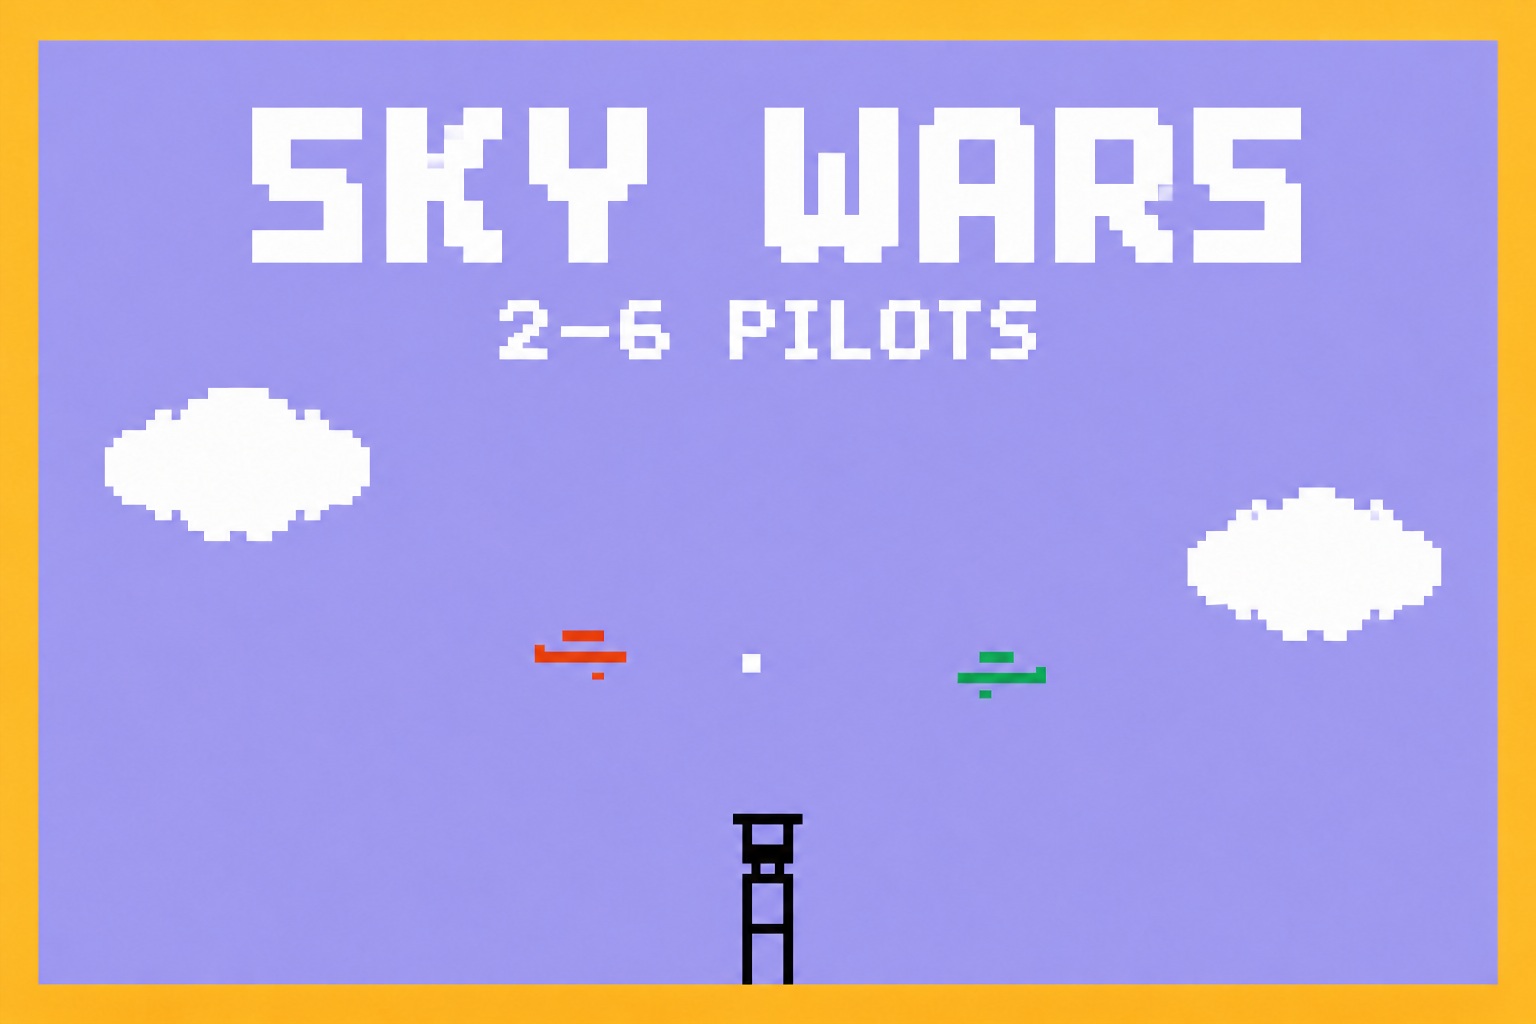
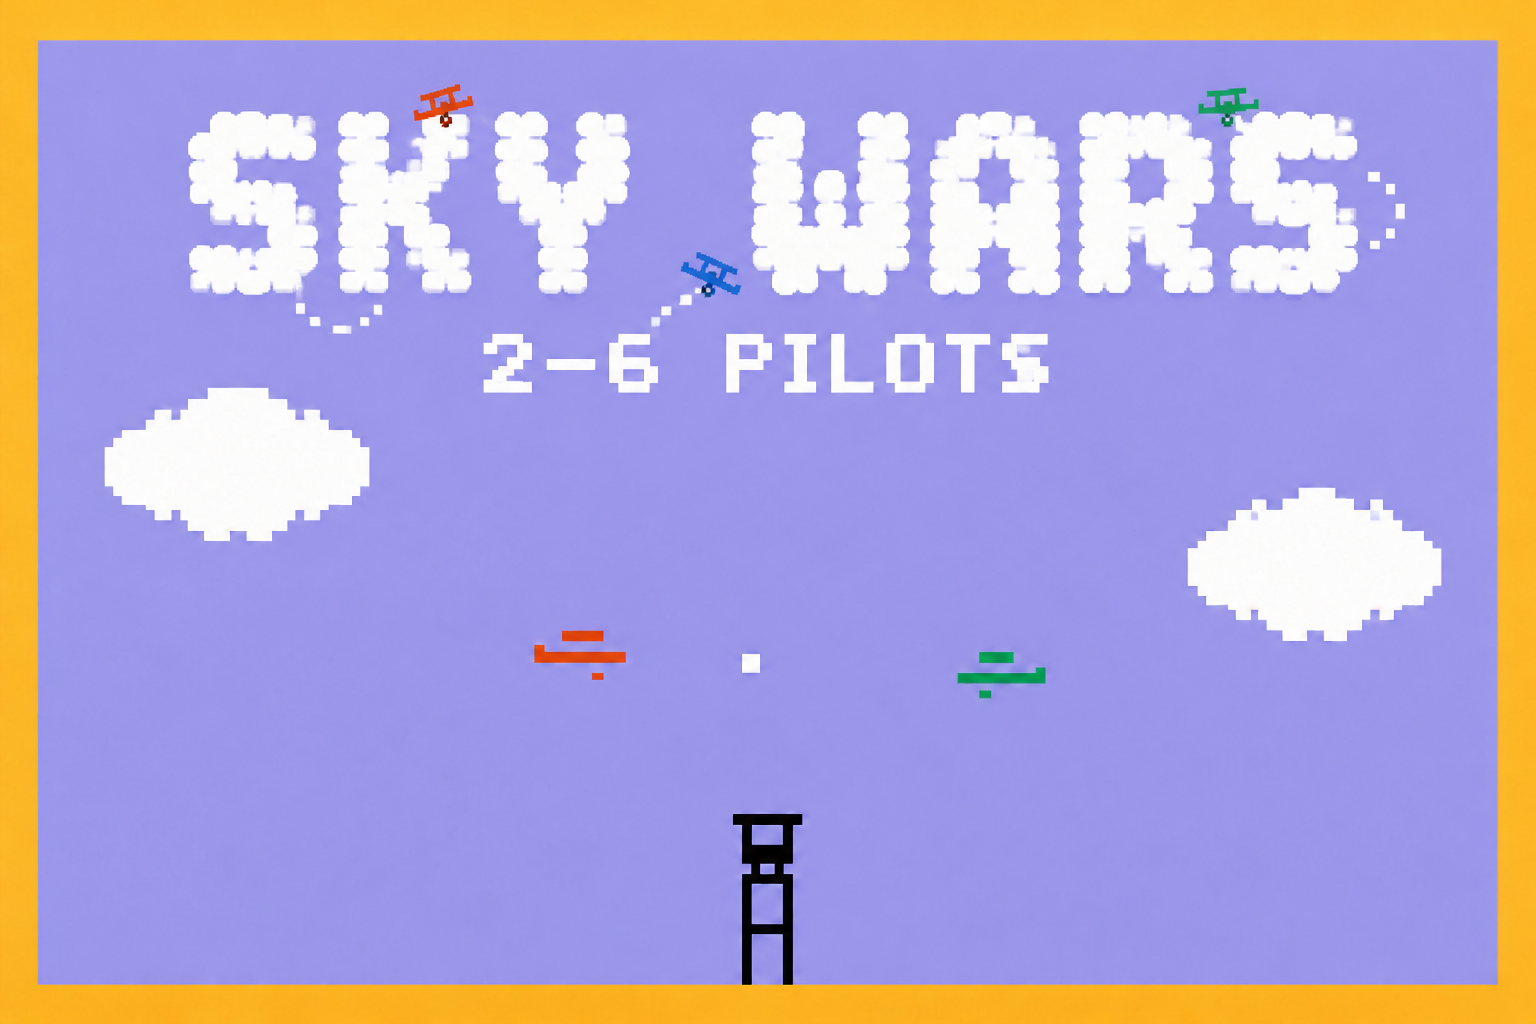
Animate cloud-built Sky Wars title

Changed region(s): [[0.125, 0.0625, 0.9375, 0.4062]]

diff --git a/app/game/title-cloud-scene.tsx b/app/game/title-cloud-scene.tsx
@@ -1,0 +1,296 @@
+"use client";
+
+import { useEffect, useRef } from "react";
+
+const WIDTH = 768;
+const HEIGHT = 512;
+const PIXEL = 4;
+const SKY = "#9b90f4";
+const WHITE = "#fffdf8";
+const BLACK = "#17131f";
+
+type Point = { x: number; y: number };
+type CloudFlight = {
+  anchor: Point;
+  color: string;
+  controlOne: Point;
+  controlTwo: Point;
+  delay: number;
+};
+
+const FLIGHTS: CloudFlight[] = [
+  {
+    anchor: { x: 190, y: 148 },
+    controlOne: { x: 42, y: 216 },
+    controlTwo: { x: 96, y: 382 },
+    color: "#f02b10",
+    delay: 0,
+  },
+  {
+    anchor: { x: 438, y: 142 },
+    controlOne: { x: 632, y: 54 },
+    controlTwo: { x: 716, y: 286 },
+    color: "#00ad38",
+    delay: 5.1,
+  },
+  {
+    anchor: { x: 622, y: 150 },
+    controlOne: { x: 728, y: 252 },
+    controlTwo: { x: 520, y: 432 },
+    color: "#f2a913",
+    delay: 10.2,
+  },
+];
+
+export function TitleCloudScene() {
+  const canvasRef = useRef<HTMLCanvasElement>(null);
+
+  useEffect(() => {
+    const canvas = canvasRef.current;
+    const context = canvas?.getContext("2d");
+    if (!canvas || !context) return;
+
+    canvas.width = WIDTH;
+    canvas.height = HEIGHT;
+    context.imageSmoothingEnabled = false;
+    let titleLayer = drawCloudTitle();
+    let animationFrame = 0;
+    const reducedMotion = window.matchMedia("(prefers-reduced-motion: reduce)").matches;
+
+    const render = (time: number) => {
+      drawIntroFrame(context, titleLayer, reducedMotion ? 0 : time / 1000);
+      if (!reducedMotion) animationFrame = window.requestAnimationFrame(render);
+    };
+
+    void document.fonts.ready.then(() => {
+      titleLayer = drawCloudTitle();
+      if (reducedMotion) drawIntroFrame(context, titleLayer, 0);
+    });
+
+    animationFrame = window.requestAnimationFrame(render);
+    return () => window.cancelAnimationFrame(animationFrame);
+  }, []);
+
+  return (
+    <canvas
+      ref={canvasRef}
+      className="title-cloud-scene"
+      aria-hidden="true"
+    />
+  );
+}
+
+function drawIntroFrame(
+  context: CanvasRenderingContext2D,
+  titleLayer: HTMLCanvasElement,
+  time: number,
+) {
+  context.clearRect(0, 0, WIDTH, HEIGHT);
+  context.fillStyle = SKY;
+  context.fillRect(0, 0, WIDTH, HEIGHT);
+  drawDepthClouds(context, time);
+  context.drawImage(titleLayer, 0, 0);
+
+  for (const flight of FLIGHTS) {
+    const progress = flightProgress(time, flight.delay);
+    if (progress === null) continue;
+    drawCloudOpening(context, flight.anchor, progress);
+    drawPlaneTrail(context, flight, progress);
+    drawLoopingPlane(context, flight, progress);
+  }
+}
+
+function drawCloudTitle() {
+  const layer = document.createElement("canvas");
+  layer.width = WIDTH;
+  layer.height = HEIGHT;
+  const context = layer.getContext("2d");
+  if (!context) return layer;
+
+  const mask = document.createElement("canvas");
+  mask.width = WIDTH / PIXEL;
+  mask.height = HEIGHT / PIXEL;
+  const maskContext = mask.getContext("2d", { willReadFrequently: true });
+  if (!maskContext) return layer;
+  maskContext.font = '22px "SkyWarsPixel"';
+  maskContext.fillStyle = WHITE;
+  maskContext.textAlign = "center";
+  maskContext.textBaseline = "alphabetic";
+  maskContext.fillText("SKY WARS", mask.width / 2, 47);
+
+  const image = maskContext.getImageData(0, 0, mask.width, mask.height);
+  const filled = (x: number, y: number) => {
+    if (x < 0 || y < 0 || x >= mask.width || y >= mask.height) return false;
+    return image.data[(y * mask.width + x) * 4 + 3] > 80;
+  };
+
+  context.globalAlpha = 0.24;
+  context.fillStyle = BLACK;
+  for (let y = 0; y < mask.height; y += 1) {
+    for (let x = 0; x < mask.width; x += 1) {
+      if (filled(x, y)) context.fillRect(x * PIXEL + 7, y * PIXEL + 9, PIXEL, PIXEL);
+    }
+  }
+
+  context.globalAlpha = 1;
+  context.fillStyle = WHITE;
+  for (let y = 0; y < mask.height; y += 1) {
+    for (let x = 0; x < mask.width; x += 1) {
+      if (!filled(x, y)) continue;
+      context.fillRect(x * PIXEL, y * PIXEL, PIXEL, PIXEL);
+      const edge = !filled(x - 1, y) || !filled(x + 1, y) || !filled(x, y - 1) || !filled(x, y + 1);
+      if (edge && cloudHash(x, y) % 11 === 0) {
+        const puff = 4 + (cloudHash(y, x) % 3) * 4;
+        context.fillRect(x * PIXEL - puff / 2, y * PIXEL - puff / 2, puff, puff);
+      }
+    }
+  }
+
+  context.font = '22px "SkyWarsPixel"';
+  context.fillStyle = WHITE;
+  context.textAlign = "center";
+  context.fillText("2-6 PILOTS", WIDTH / 2, 237);
+  return layer;
+}
+
+function drawDepthClouds(context: CanvasRenderingContext2D, time: number) {
+  const distantDrift = (time * 3) % (WIDTH + 260);
+  const nearDrift = (time * 7) % (WIDTH + 360);
+
+  context.save();
+  context.globalAlpha = 0.1;
+  drawPixelCloud(context, WIDTH - distantDrift, 310, 0.75, WHITE);
+  drawPixelCloud(context, 330 - distantDrift, 390, 0.5, WHITE);
+  context.globalAlpha = 0.08;
+  drawPixelCloud(context, -170 + nearDrift, 430, 1.4, BLACK);
+  drawPixelCloud(context, 620 - nearDrift, 360, 1.05, BLACK);
+  context.restore();
+}
+
+function drawPixelCloud(
+  context: CanvasRenderingContext2D,
+  x: number,
+  y: number,
+  scale: number,
+  color: string,
+) {
+  const unit = 8 * scale;
+  context.fillStyle = color;
+  context.fillRect(Math.round(x), Math.round(y), Math.round(unit * 9), Math.round(unit * 3));
+  context.fillRect(Math.round(x + unit), Math.round(y - unit), Math.round(unit * 3), Math.round(unit));
+  context.fillRect(Math.round(x + unit * 4), Math.round(y - unit * 2), Math.round(unit * 3), Math.round(unit * 2));
+  context.fillRect(Math.round(x + unit * 7), Math.round(y - unit), Math.round(unit), Math.round(unit));
+  context.fillRect(Math.round(x + unit * 2), Math.round(y + unit * 3), Math.round(unit * 5), Math.round(unit));
+}
+
+function flightProgress(time: number, delay: number) {
+  const cycle = 15.3;
+  const phase = ((time + delay) % cycle + cycle) % cycle / cycle;
+  if (phase < 0.12 || phase > 0.42) return null;
+  return smoothStep((phase - 0.12) / 0.3);
+}
+
+function smoothStep(value: number) {
+  return value < 0.5
+    ? 4 * value * value * value
+    : 1 - Math.pow(-2 * value + 2, 3) / 2;
+}
+
+function cubicPoint(flight: CloudFlight, progress: number) {
+  const inverse = 1 - progress;
+  return {
+    x:
+      inverse * inverse * inverse * flight.anchor.x +
+      3 * inverse * inverse * progress * flight.controlOne.x +
+      3 * inverse * progress * progress * flight.controlTwo.x +
+      progress * progress * progress * flight.anchor.x,
+    y:
+      inverse * inverse * inverse * flight.anchor.y +
+      3 * inverse * inverse * progress * flight.controlOne.y +
+      3 * inverse * progress * progress * flight.controlTwo.y +
+      progress * progress * progress * flight.anchor.y,
+  };
+}
+
+function cubicDirection(flight: CloudFlight, progress: number) {
+  const inverse = 1 - progress;
+  const x =
+    3 * inverse * inverse * (flight.controlOne.x - flight.anchor.x) +
+    6 * inverse * progress * (flight.controlTwo.x - flight.controlOne.x) +
+    3 * progress * progress * (flight.anchor.x - flight.controlTwo.x);
+  const y =
+    3 * inverse * inverse * (flight.controlOne.y - flight.anchor.y) +
+    6 * inverse * progress * (flight.controlTwo.y - flight.controlOne.y) +
+    3 * progress * progress * (flight.anchor.y - flight.controlTwo.y);
+  return Math.atan2(y, x);
+}
+
+function drawCloudOpening(context: CanvasRenderingContext2D, anchor: Point, progress: number) {
+  const open = Math.sin(Math.PI * progress);
+  const size = Math.round(4 + open * 11) / 2 * 2;
+  context.fillStyle = SKY;
+  context.fillRect(Math.round(anchor.x - size), Math.round(anchor.y - size / 2), size * 2, size);
+  if (open > 0.55) {
+    context.fillRect(Math.round(anchor.x - size / 2), Math.round(anchor.y - size), size, size * 2);
+  }
+}
+
+function drawPlaneTrail(
+  context: CanvasRenderingContext2D,
+  flight: CloudFlight,
+  progress: number,
+) {
+  context.save();
+  context.fillStyle = WHITE;
+  for (let index = 1; index <= 7; index += 1) {
+    const trailProgress = Math.max(0, progress - index * 0.018);
+    const point = cubicPoint(flight, trailProgress);
+    context.globalAlpha = 0.42 - index * 0.045;
+    const size = index % 3 === 0 ? 4 : 3;
+    context.fillRect(Math.round(point.x), Math.round(point.y), size, size);
+  }
+  context.restore();
+}
+
+function drawLoopingPlane(
+  context: CanvasRenderingContext2D,
+  flight: CloudFlight,
+  progress: number,
+) {
+  const point = cubicPoint(flight, progress);
+  const direction = cubicDirection(flight, progress);
+  const angle = Math.round(direction / (Math.PI / 12)) * (Math.PI / 12);
+  const depth = 0.62 + Math.sin(Math.PI * progress) * 0.9;
+
+  context.save();
+  context.translate(Math.round(point.x + 5), Math.round(point.y + 7));
+  context.rotate(angle);
+  context.scale(depth, depth);
+  context.globalAlpha = 0.24;
+  drawPlaneShape(context, BLACK, false);
+  context.restore();
+
+  context.save();
+  context.translate(Math.round(point.x), Math.round(point.y));
+  context.rotate(angle);
+  context.scale(depth, depth);
+  drawPlaneShape(context, flight.color);
+  context.restore();
+}
+
+function drawPlaneShape(context: CanvasRenderingContext2D, color: string, drawCockpit = true) {
+  context.fillStyle = color;
+  context.fillRect(-12, -2, 24, 4);
+  context.fillRect(-8, -8, 17, 3);
+  context.fillRect(-6, -5, 15, 8);
+  context.fillRect(-12, -6, 4, 8);
+  context.fillRect(8, -1, 7, 2);
+  if (drawCockpit) {
+    context.fillStyle = WHITE;
+    context.fillRect(2, -4, 3, 3);
+  }
+}
+
+function cloudHash(x: number, y: number) {
+  return Math.abs((x * 73856093) ^ (y * 19349663));
+}

diff --git a/app/globals.css b/app/globals.css
@@ -103,15 +103,34 @@ strong {
   display: grid;
   place-items: end center;
   padding: 7%;
-  background-color: var(--purple);
-  background-image: var(--title-art, url("/og.png"));
-  background-position: center;
-  background-repeat: no-repeat;
-  background-size: cover;
+  overflow: hidden;
+  background: var(--purple);
   image-rendering: pixelated;
 }
 
+.title-cloud-scene {
+  position: absolute;
+  inset: 0;
+  display: block;
+  width: 100%;
+  height: 100%;
+  image-rendering: pixelated;
+  pointer-events: none;
+}
+
+.title-heading,
+.title-subtitle {
+  position: absolute;
+  width: 1px;
+  height: 1px;
+  overflow: hidden;
+  clip: rect(0 0 0 0);
+  white-space: nowrap;
+}
+
 .title-screen button {
+  position: relative;
+  z-index: 2;
   padding: 8px;
   color: var(--white);
   font-size: clamp(9px, 1.2vw, 14px);

diff --git a/app/game/SkyWars.tsx b/app/game/SkyWars.tsx
@@ -35,6 +35,7 @@ import {
 } from "../../lib/radio";
 import { PeerRoom } from "./peer-room";
 import { pilotReadout, renderGame, resetRendererEffects, type ChatBubble } from "./render-game";
+import { TitleCloudScene } from "./title-cloud-scene";
 
 type Screen = "title" | "menu" | "join" | "connecting" | "playing";
 type Mode = "practice" | "host" | "guest" | null;
@@ -945,6 +946,9 @@ export function SkyWars() {
 
         {screen === "title" && (
           <div className="title-screen">
+            <h1 className="title-heading">SKY WARS</h1>
+            <span className="title-subtitle">2-6 PILOTS</span>
+            <TitleCloudScene />
             <button type="button" onClick={pressStart}>PRESS START</button>
           </div>
         )}

diff --git a/github-pages/main.tsx b/github-pages/main.tsx
@@ -4,8 +4,6 @@ import { SkyWars } from "../app/game/SkyWars";
 import "../app/globals.css";
 
 window.SKY_WARS_ROOM_ORIGIN = "https://loop-and-lead-duel.latelee.chatgpt.site";
-const titleArt = new URL("./og.png", window.location.href).href;
-document.documentElement.style.setProperty("--title-art", `url("${titleArt}")`);
 
 const root = document.getElementById("root");
 if (!root) throw new Error("Sky Wars could not find its game screen.");

diff --git a/README.md b/README.md
@@ -4,7 +4,7 @@ An original browser homage to early console biplane dogfights. Two to six pilots
 
 ## Play
 
-- Press **Start** on the pixel title screen to enable game audio and open the game menu.
+- Press **Start** on the animated title screen to enable game audio and open the game menu. The centred SKY WARS letters are built from pixel clouds while tiny biplanes periodically break out, bank through the foreground, and disappear back into the lettering.
 - **A / D** or **arrow keys** rotate the aircraft. Press both turn directions together to perform one precisely timed barrel roll. Bullets and missiles pass through the aircraft during the roll, followed by a short recharge beat before another dodge is possible.
 - **Space** fires the forward gun. Each magazine holds three shots, followed by a short automatic reload. Rooms can use instant one-hit destruction or three-hit damage, where the aircraft first breaks, then smokes, then explodes.
 - Hold **T** and speak to send a radio-filtered voice clip of up to three seconds. On supported browsers, the spoken words also appear briefly above your aircraft. On mobile, hold **Talk**. Clips and transcriptions are transmitted directly to the room, disappear after playback, and are not stored.
